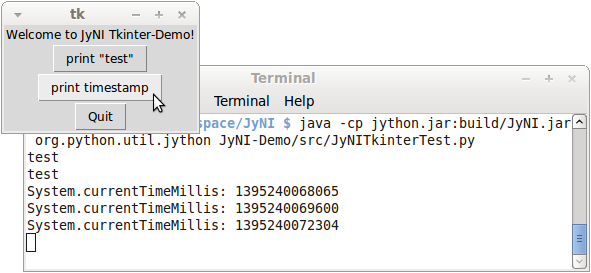
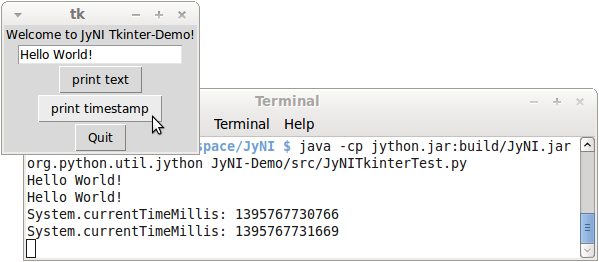
enhanched Tkinter example

diff --git a/papers/richthofer/richthofer.rst b/papers/richthofer/richthofer.rst
@@ -302,9 +302,9 @@ In contrast to that, Jython does not have a GIL and allows multiple threads at a
 A real-world example: Tkinter
 ---------------------------------
 
-To present a non-trivial example, we refere to Tkinter, the most popular GUI toolkit for Python.
+To present a non-trivial example, we refere to Tkinter, one of the most popular GUI frameworks for Python.
 There has already been an approach to make Tkinter available in Jython, namely jTkinter – see [JTK]_. However the last
-update to the project was in 2000, so it is rather outdated by now and must be considered dead.
+update to the project was in 2000, so it is rather outdated by now and must be considered inactive.
 
 Since release alpha2.1, JyNI has been tested successfully on basic Tkinter-code.
 We load Tkinter from the place where it is usually installed on Linux:
@@ -312,30 +312,33 @@ We load Tkinter from the place where it is usually installed on Linux:
 .. code-block:: python
 
 	import sys
-
 	#Include native Tkinter:
 	sys.path.append('/usr/lib/python2.7/lib-dynload')
 	sys.path.append('/usr/lib/python2.7/lib-tk')
 
 	from Tkinter import *
 
-	def printTest():
-		print "test"
-	
-	def printTimeStamp():
-		from java.lang import System
-		print "System.currentTimeMillis: "
-			+str(System.currentTimeMillis())
-
 	root = Tk()
-	Label(root,
-		text="Welcome to JyNI Tkinter-Demo!").pack()
-	Button(root, text="print \"test\"",
-		command=printTest).pack()
-	Button(root, text="print timestamp",
-		command=printTimeStamp).pack()
-	Button(root, text="Quit",
-		command=root.destroy).pack()
+	txt = StringVar()
+	txt.set("Hello World!")
+
+	def printText():
+	    print txt.get()
+
+	def printTimeStamp():
+	    from java.lang import System
+	    print "System.currentTimeMillis: "
+	    	+str(System.currentTimeMillis())
+
+	Label(root, text =
+		"Welcome to JyNI Tkinter-Demo!").pack()
+	Entry(root, textvariable = txt).pack()
+	Button(root, text = "print text",
+		command = printText).pack()
+	Button(root, text = "print timestamp",
+		command = printTimeStamp).pack()
+	Button(root, text = "Quit",
+		command = root.destroy).pack()
 
 	root.mainloop()
 
